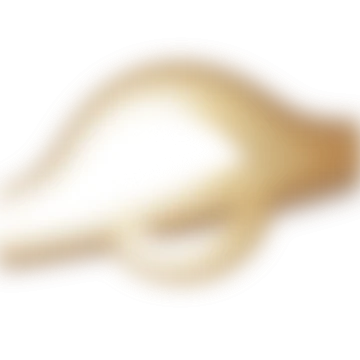
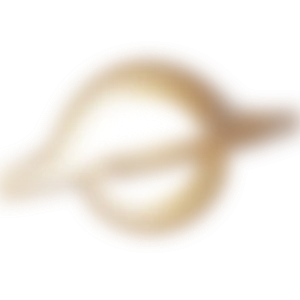
2048: black hole disk spins (24 ray-traced frames in a grid, stepped by transforms) and is thinner

Changed region(s): [[0.0, 0.12, 1.0, 0.78]]

diff --git a/2048/tiles.css b/2048/tiles.css
@@ -64,11 +64,13 @@
   animation: g-slide2 85s linear infinite reverse;
 }
 
-/* 65536: a black hole, as in the Interstellar pictures. art/blackhole.webp is ray-traced
-   (art/blackhole-render.mjs), so the accretion disk bends around the shadow the way gravity bends
-   it: the far side arcs over the top and under the bottom, the near side crosses in front. Behind
-   it, clouds of orange gas (art/blackhole-sky.svg) breathe and sway; over it, a blurred copy of
-   its light pulses, and the hole itself drifts very slightly. */
+/* 65536: a black hole, as in the Interstellar pictures. It's ray-traced (art/blackhole-render.mjs),
+   so the accretion disk bends around the shadow the way gravity bends it: the far side arcs over
+   the top and under the bottom, the near side crosses in front. art/blackhole-spin.webp is 24
+   frames of the disk turning, in a 6 × 4 grid; the tile slides the grid one frame at a time
+   (steps() on transforms, so no redraw): .g-rows steps down a row while .g-strip steps
+   across its six frames. Behind it, clouds of orange gas (art/blackhole-sky.svg)
+   breathe and sway; over it, a blurred copy of its light pulses. */
 .g-face[data-tier="blackhole"] { background: #050201; color: #ffffff;
   text-shadow: 0 0 calc(var(--cell) * .035) #000, 0 0 calc(var(--cell) * .035) #000, 0 0 calc(var(--cell) * .14) #ff9a3a; }
 .g-face[data-tier="blackhole"]::after {
@@ -76,13 +78,18 @@
   background: url(art/blackhole-sky.svg) center / cover;
   animation: g-sway 20s ease-in-out infinite alternate, g-clouds 4.5s ease-in-out infinite alternate;
 }
-.g-face[data-tier="blackhole"]::before {
-  inset: -4%; border-radius: 0;
-  background: url(art/blackhole.webp) center / contain no-repeat;
-  animation: g-hover 9s ease-in-out infinite alternate;
+.g-face[data-tier="blackhole"] .g-fx { position: absolute; inset: -4%; z-index: -1; pointer-events: none; }
+.g-face[data-tier="blackhole"] .g-fx[data-fx="spin"] { overflow: hidden; animation: g-hover 9s ease-in-out infinite alternate; }
+.g-face[data-tier="blackhole"] .g-rows {
+  position: absolute; left: 0; top: 0; width: 100%; height: 400%;
+  animation: g-rows 2.6s steps(4) infinite;
 }
-.g-face[data-tier="blackhole"] .g-fx {
-  position: absolute; inset: -4%; z-index: -1; pointer-events: none;
+.g-face[data-tier="blackhole"] .g-strip {
+  position: absolute; left: 0; top: 0; width: 600%; height: 100%;
+  background: url(art/blackhole-spin.webp) 0 0 / 100% 100% no-repeat;
+  animation: g-frames .65s steps(6) infinite;
+}
+.g-face[data-tier="blackhole"] .g-fx[data-fx="glow"] {
   background: url(art/blackhole-glow.webp) center / contain no-repeat;
   mix-blend-mode: screen;
   animation: g-hover 9s ease-in-out infinite alternate, g-halo 2.8s ease-in-out infinite alternate;
@@ -117,10 +124,12 @@
 @keyframes g-galaxy { from { transform: scaleY(.72) rotate(0deg); } to { transform: scaleY(.72) rotate(-360deg); } }
 @keyframes g-twinkle { from { opacity: .25; } to { opacity: 1; } }
 @keyframes g-halo { from { opacity: .35; } to { opacity: 1; } }
+@keyframes g-frames { to { transform: translateX(-100%); } }
+@keyframes g-rows { to { transform: translateY(-100%); } }
 @keyframes g-hover { from { transform: translate(-1%, .5%) rotate(-1.5deg) scale(.99); } to { transform: translate(1%, -.5%) rotate(1.5deg) scale(1.02); } }
 @keyframes g-sway { from { transform: rotate(-4deg) scale(1.02); } to { transform: rotate(4deg) scale(1.1); } }
 @keyframes g-clouds { from { opacity: .6; } to { opacity: 1; } }
 
 @media (prefers-reduced-motion: reduce) {
-  .g-face[data-tier], .g-face[data-tier]::before, .g-face[data-tier]::after, .g-fx { animation: none !important; }
+  .g-face[data-tier], .g-face[data-tier]::before, .g-face[data-tier]::after, .g-fx, .g-rows, .g-strip { animation: none !important; }
 }
